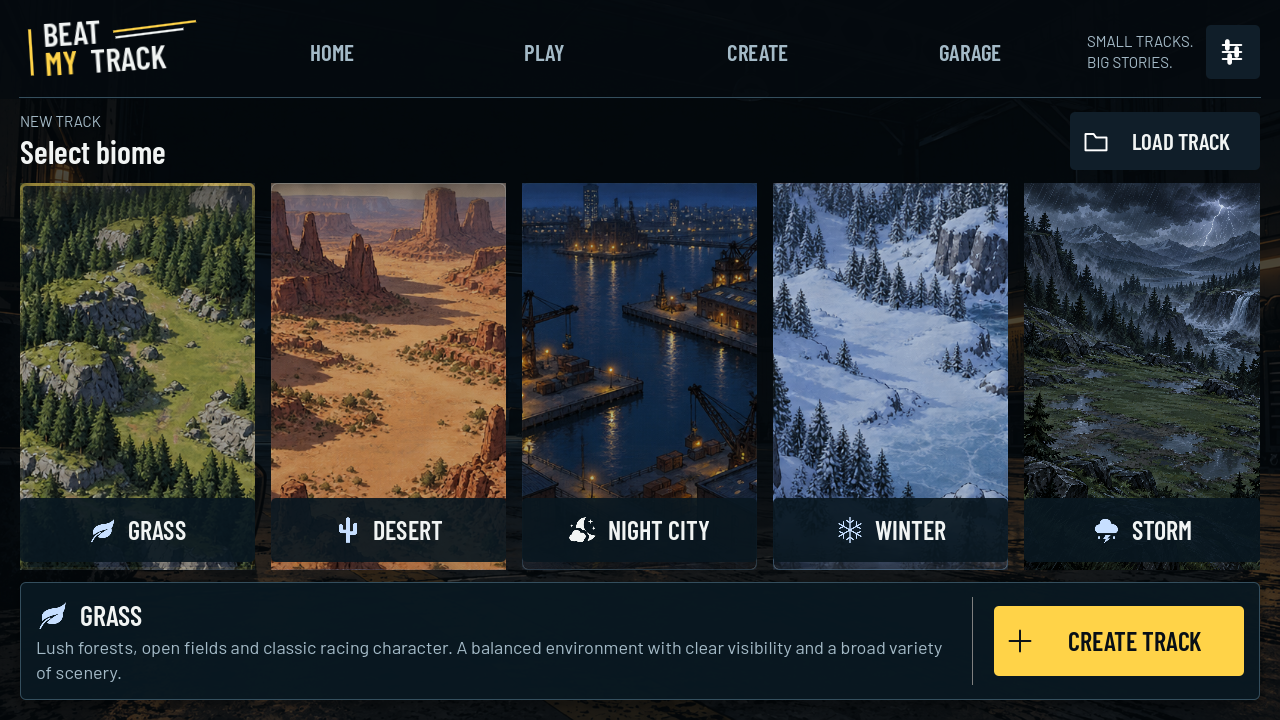
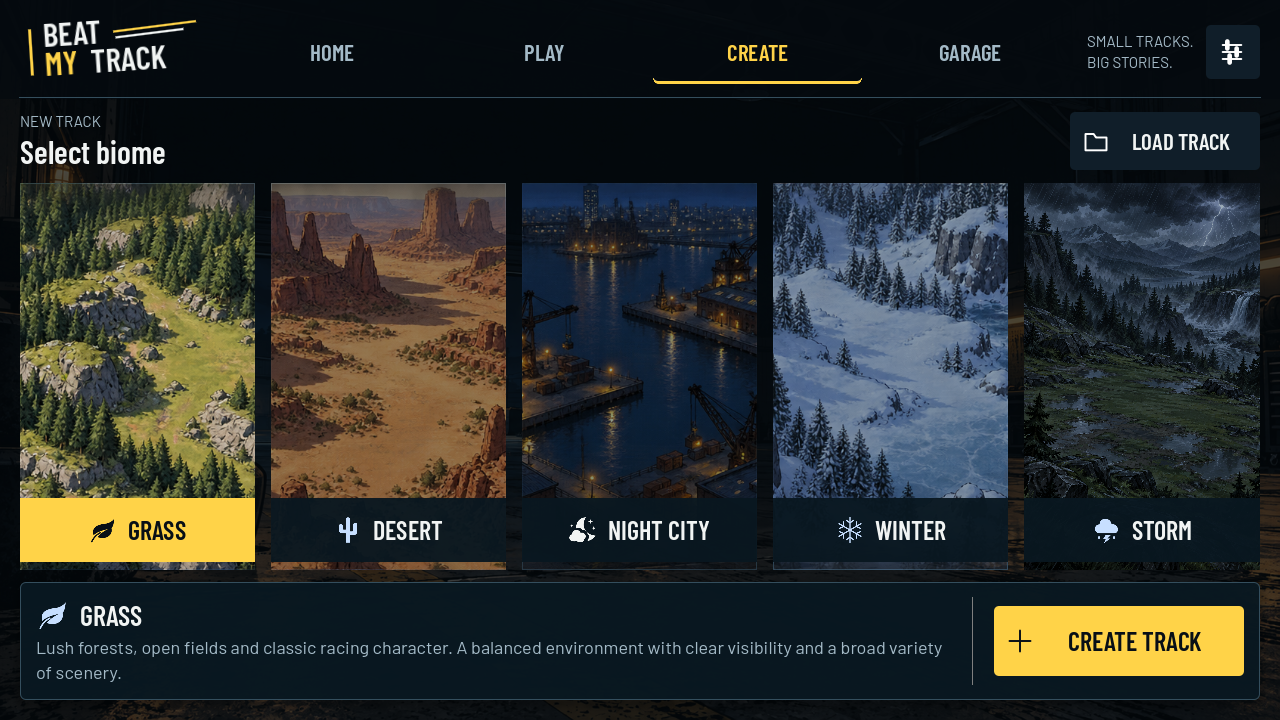
Refine biome card selected treatment

diff --git a/docs/BIOME_CREATION.md b/docs/BIOME_CREATION.md
@@ -1,5 +1,11 @@
 # Required biome selection ? 2026-09-18
 
+## Consistent selected-card treatment - 2026-09-24
+
+Requirements R01/V03/V05. Biome selection no longer depends on how a thin highlight reads against each scenic image. Every unselected image now receives the same subdued tint, while the selected image stays full brightness and gains a solid yellow label band with dark icon and text. The yellow outer selection frame was removed by owner follow-up; every card retains the same neutral 1 px edge. The treatment is identical for Grass, Desert, Night City, Winter and Storm. Biome label bands have square corners.
+
+Changed `game/core/app.gd`, `game/tests/test_biomes.gd`, this document, status/phase notes and the refreshed picker evidence. Actual command `powershell -NoProfile -ExecutionPolicy Bypass -File scripts/dev.ps1 CaptureBiomes` used pinned Godot 4.7.2 and passed 107 checks with zero failures. The refreshed desktop [picker](evidence/biomes/picker.png) was visually inspected; the selected state remains distinct from Storm and the other dark artwork. No phone test or Android export was performed; physical-device readability/touch acceptance remains.
+
 ## Reference menu icon match - 2026-09-23
 
 R01/V03/V05: owner's clarification targets only the small biome symbols in the supplied Create reference. Revised the existing vector artwork to its curved folded leaf, narrow rounded cactus, crescent with scalloped clouds and small sparkle stars, delicate six-arm snowflake, and rounded rain cloud with the requested added lightning bolt. Card and summary symbols share the reference's pale blue, with an off-white Night symbol. These are vector recreations rather than screenshot crops. Scenic art and heading remain as accepted.
